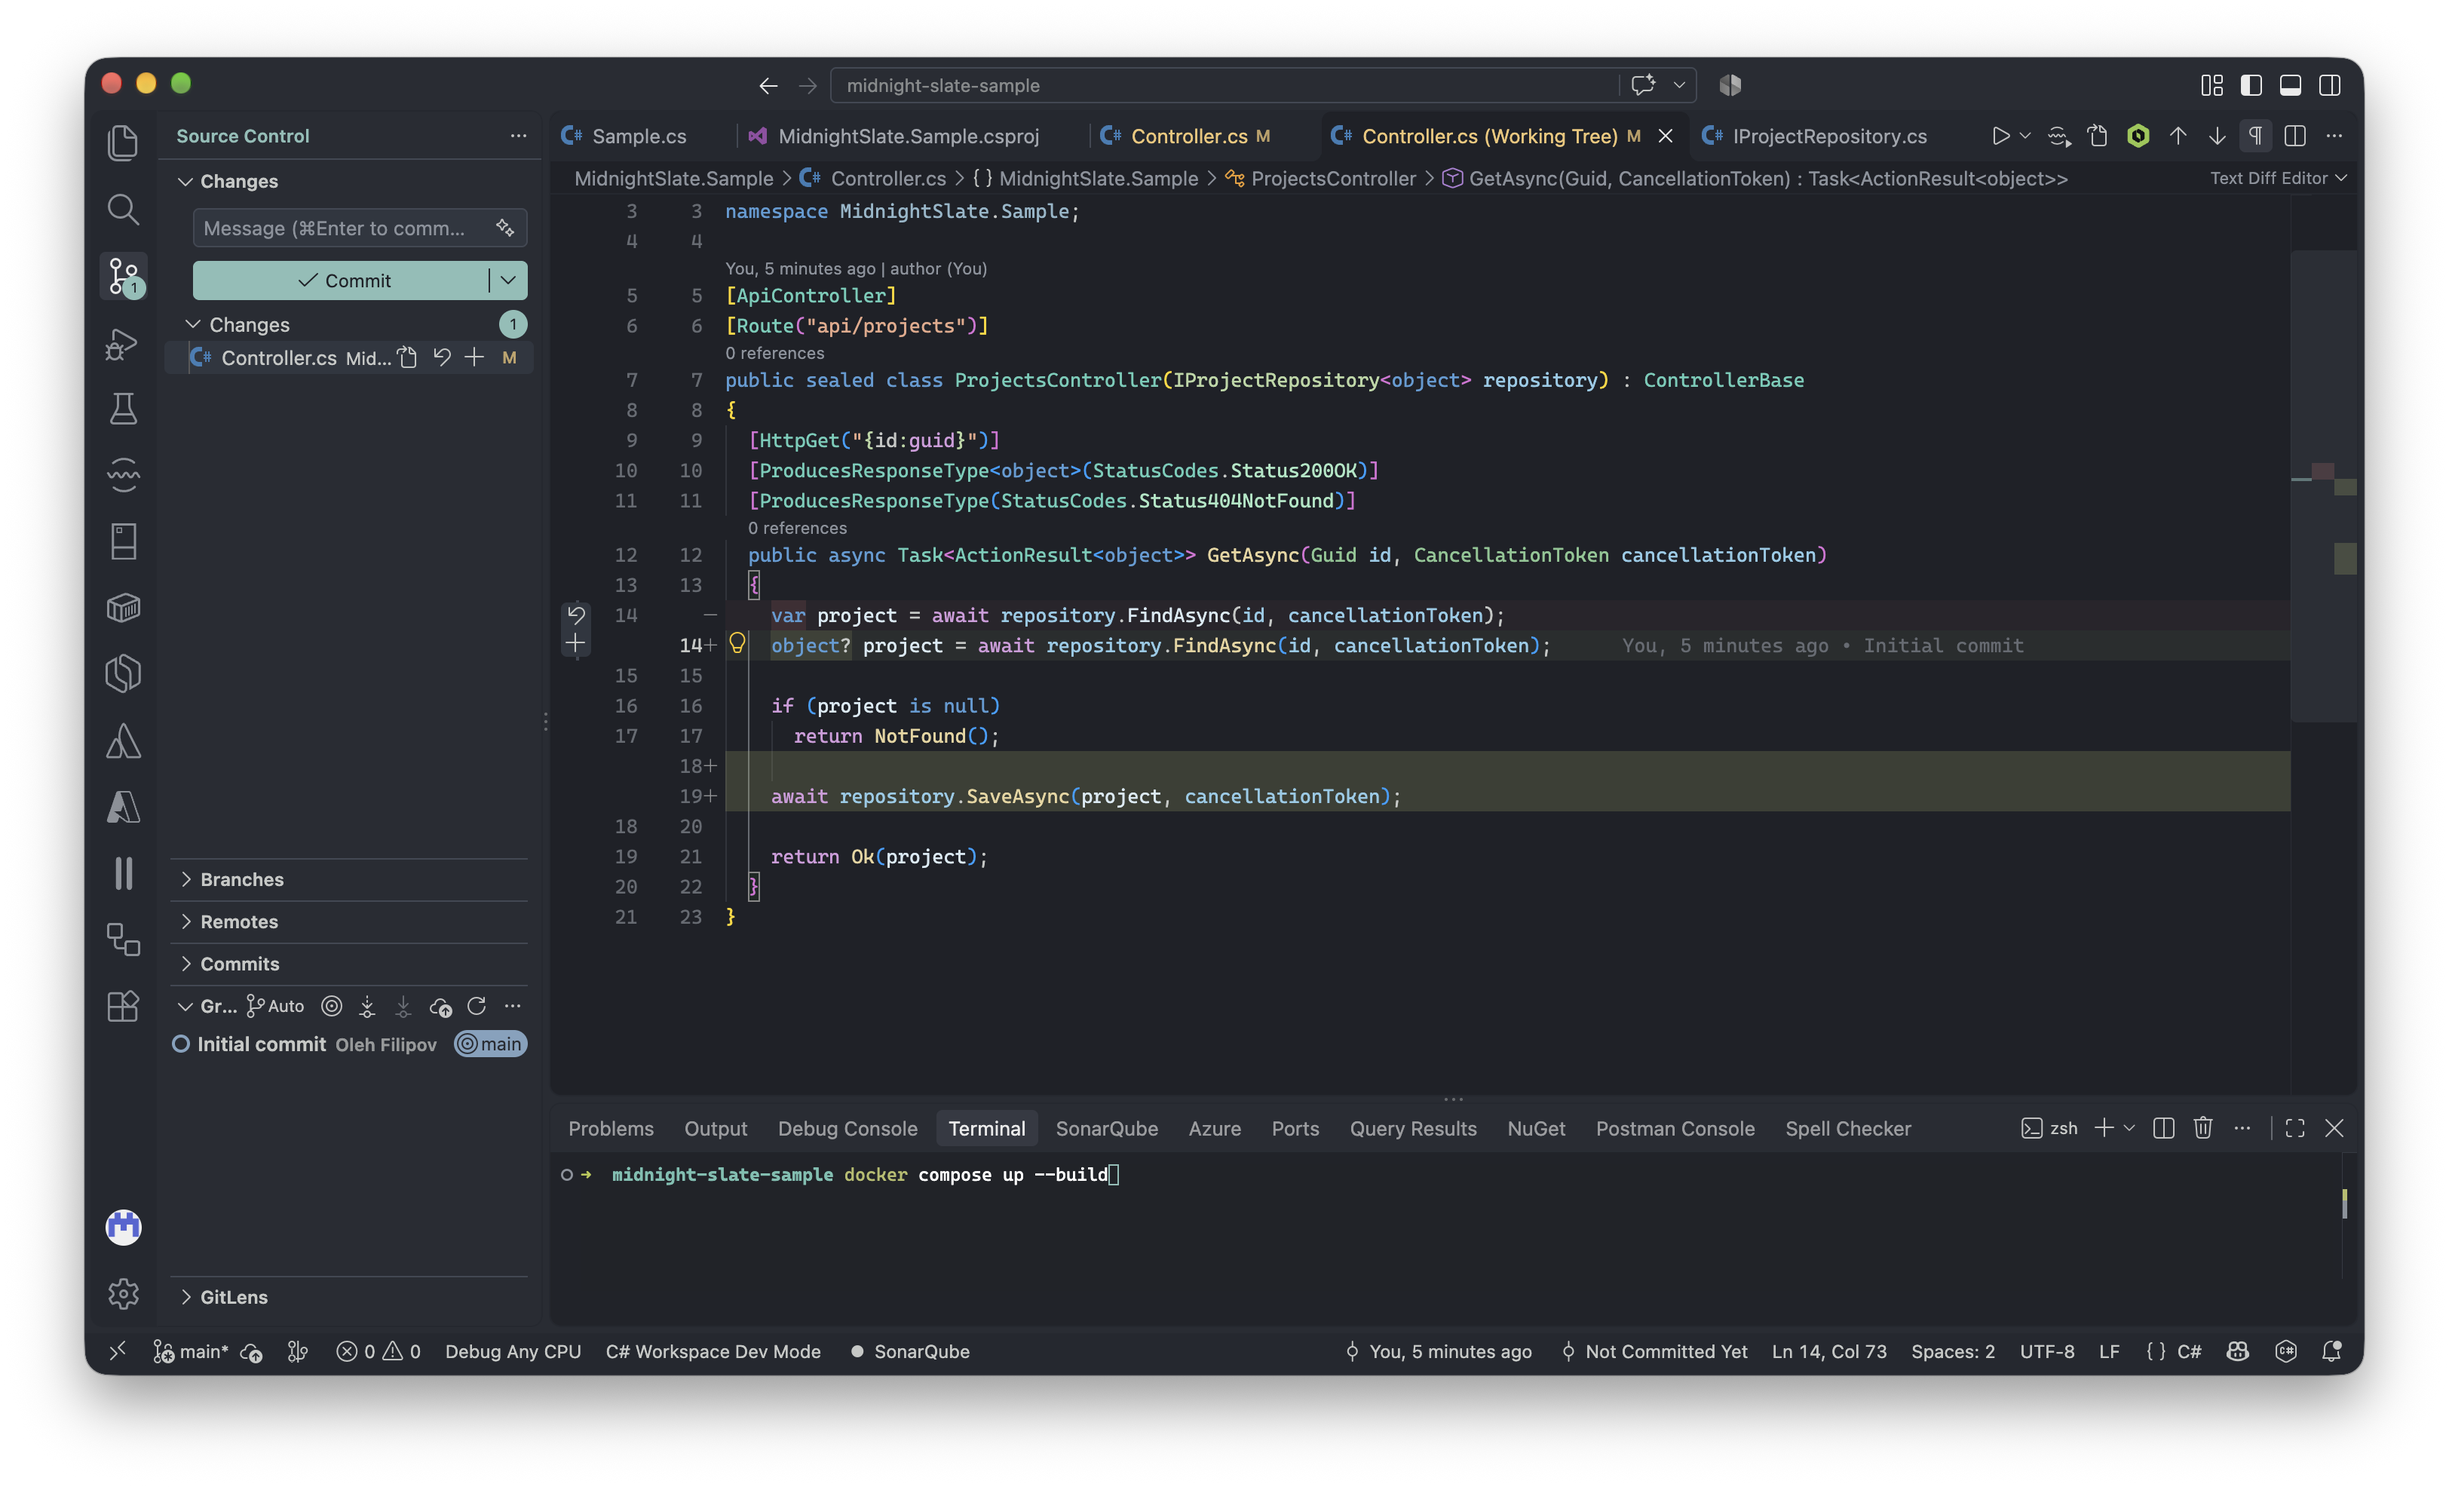
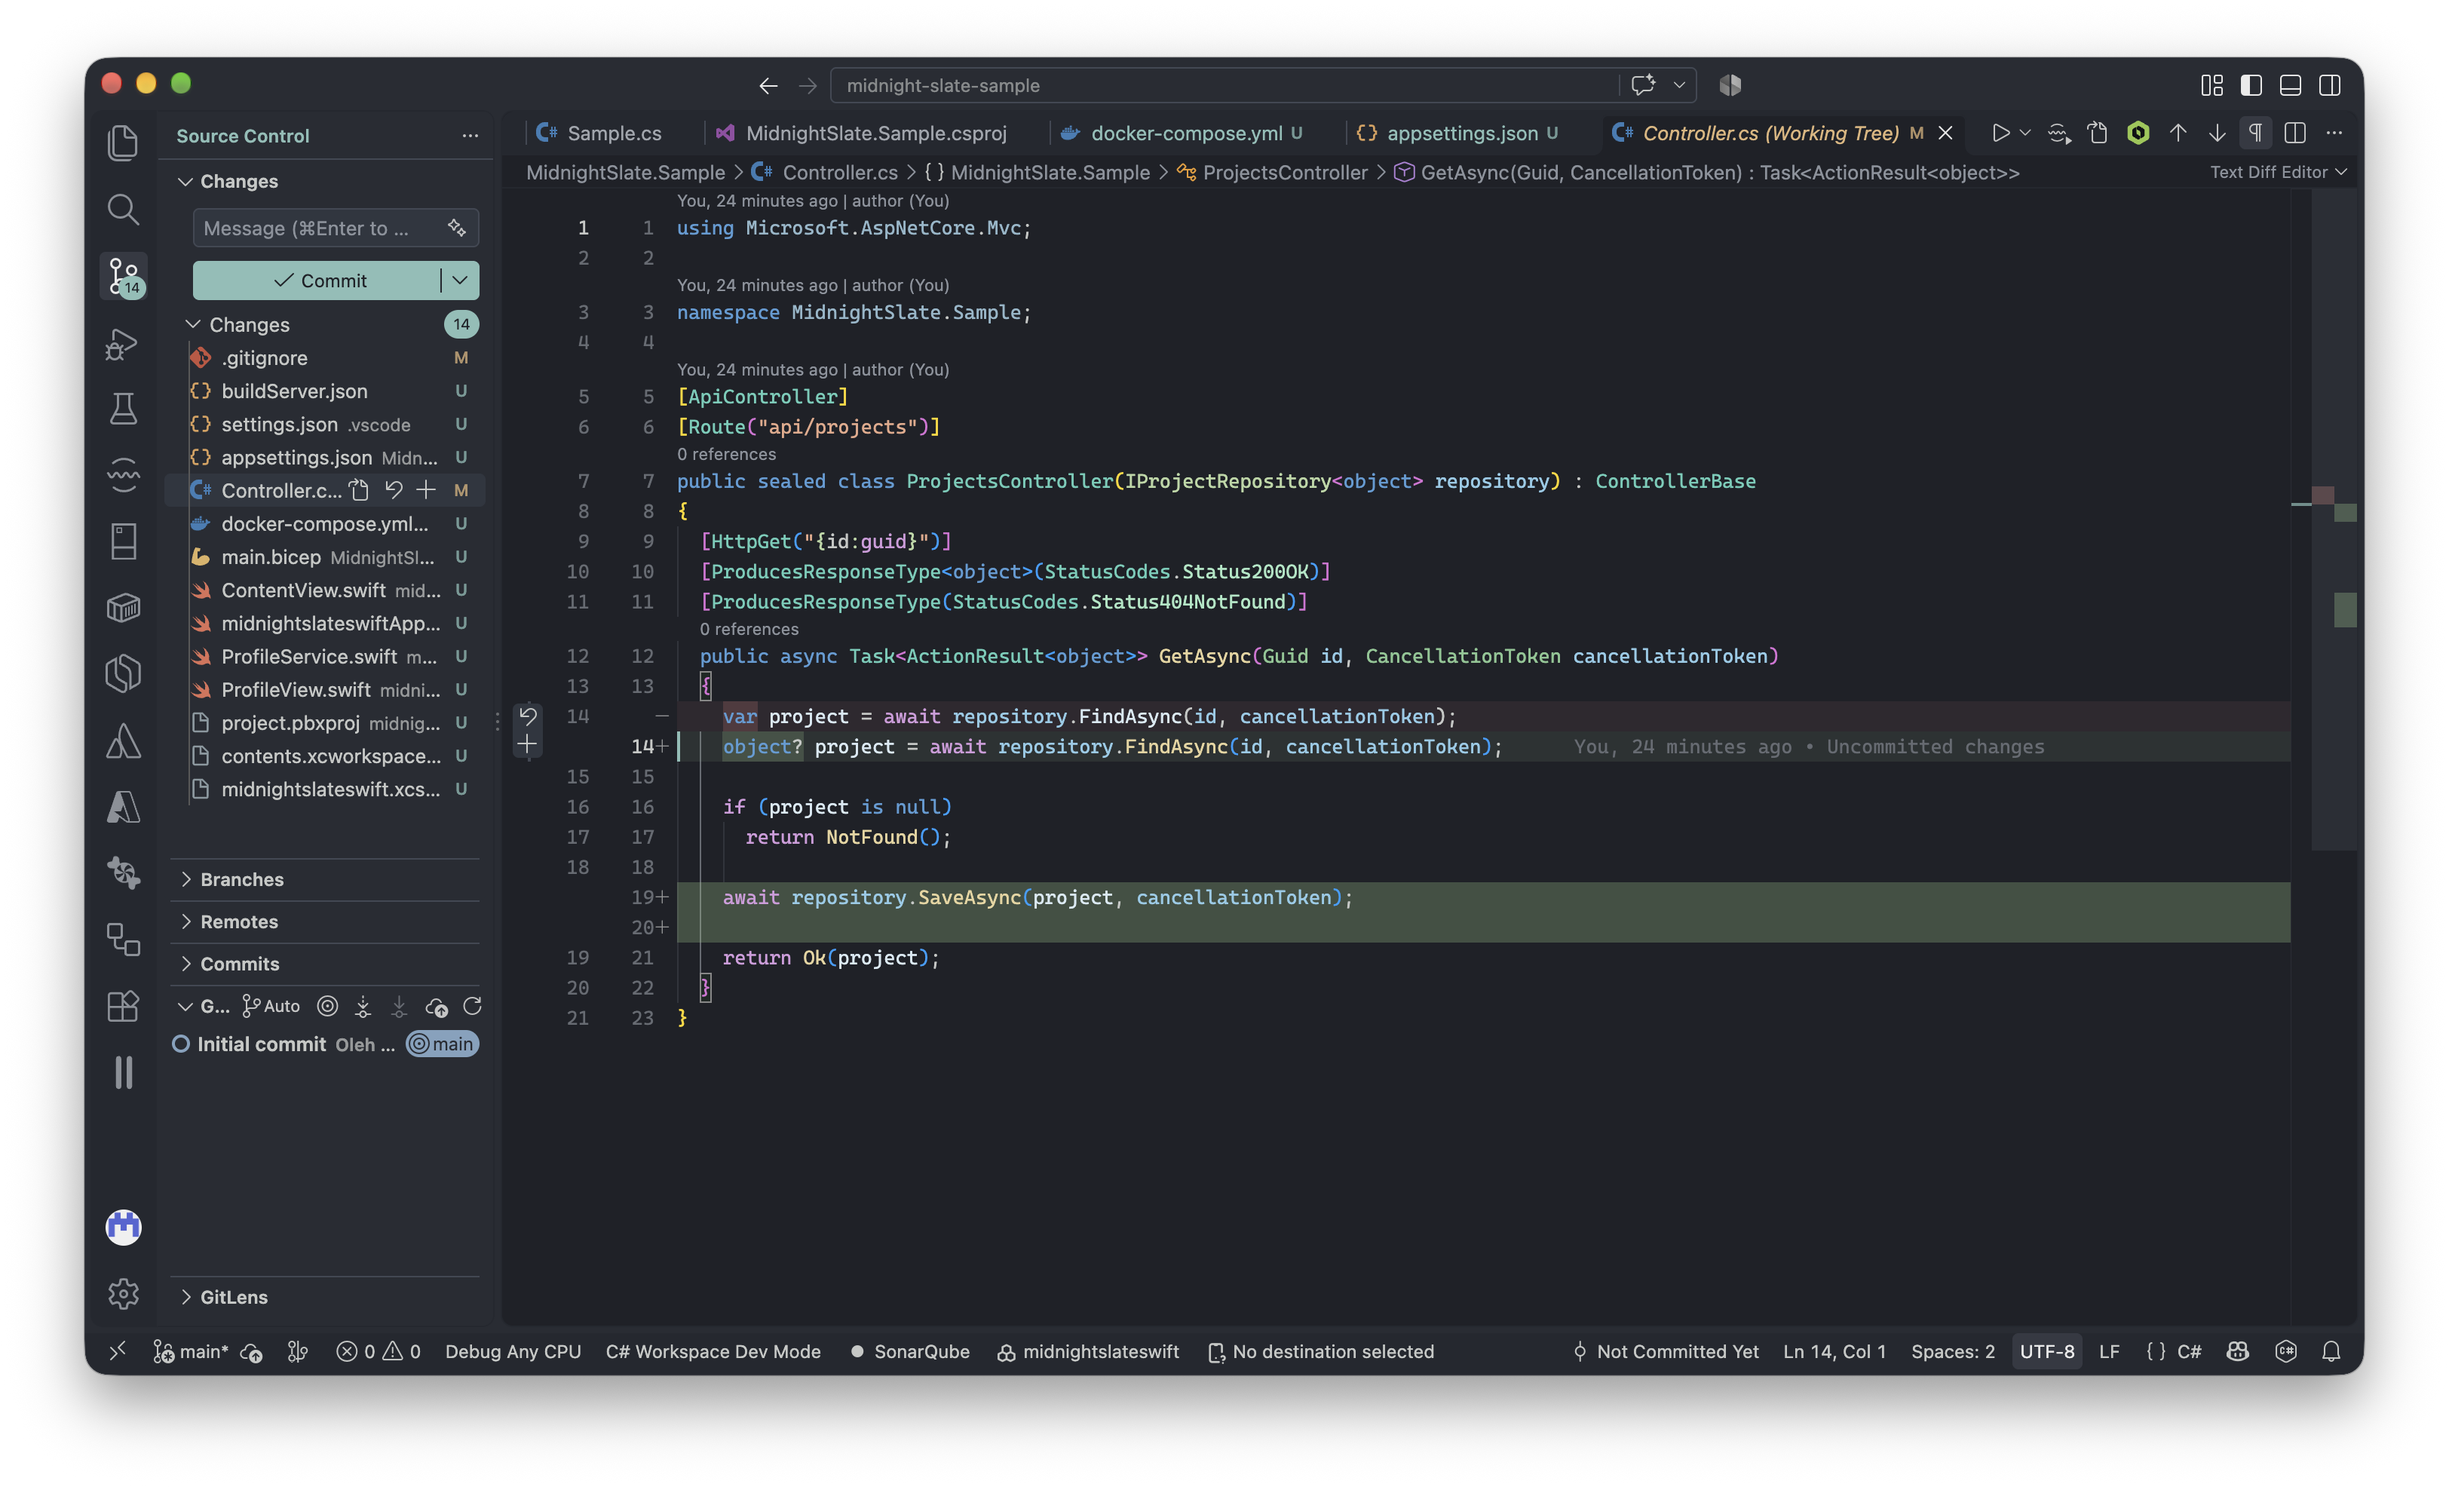
Add Swift support and refine theme colors (#6)
Added Swift and SwiftUI highlighting and refined theme colors

- Swift/SwiftUI syntax colors
- Softer, more readable added/modified/deleted colors
- New gutter, breakpoint, and overview ruler colors
- README: Swift screenshots and related extensions

diff --git a/README.md b/README.md
@@ -1,8 +1,8 @@
 # Midnight Slate
 
-A dark theme for Visual Studio Code, primarily designed for C# and .NET development.
+A dark theme for Visual Studio Code, primarily designed for C#/.NET and Swift/SwiftUI development.
 
-Midnight Slate combines a charcoal interface with muted accents and distinct syntax colors. It includes editor, terminal, Source Control, and workbench colors, with additional attention to JSON, YAML, Bicep, Razor, and other languages commonly used in .NET development. Other languages use the same color palette, but have not been tested extensively.
+Midnight Slate combines a charcoal interface with muted accents and distinct syntax colors. It includes editor, terminal, Source Control, and workbench colors, with additional attention to JSON, YAML, and Bicep. Other languages, such as Razor, TypeScript, and JavaScript, use the same color palette, but have not been tested extensively.
 
 ## Preview
 
@@ -13,6 +13,12 @@ Midnight Slate combines a charcoal interface with muted accents and distinct syn
 ![C# interface highlighting](images/screenshots/csharp-interface-syntax.png)
 
 ![ASP.NET Core controller highlighting](images/screenshots/csharp-controller-syntax.png)
+
+### Swift
+
+![Swift highlighting](images/screenshots/swift-syntax.png)
+
+![SwiftUI highlighting](images/screenshots/swift-ui-syntax.png)
 
 ### Source Control
 
@@ -122,17 +128,20 @@ git clone https://github.com/zsh-users/zsh-autosuggestions.git \
   ~/.oh-my-zsh/custom/plugins/zsh-autosuggestions
 ```
 
-### Related extensions
+### Related extensions and tools
 
-These extensions complement Midnight Slate for C# and .NET development:
+These extensions and tools complement Midnight Slate for C#/.NET and Swift development:
 
 - [Material Icon Theme](https://marketplace.visualstudio.com/items?itemName=PKief.material-icon-theme) — file and folder icons.
 - [C# Dev Kit](https://marketplace.visualstudio.com/items?itemName=ms-dotnettools.csdevkit) — C# and .NET development support.
 - [Bicep](https://marketplace.visualstudio.com/items?itemName=ms-azuretools.vscode-bicep) — Azure infrastructure authoring.
 - [YAML](https://marketplace.visualstudio.com/items?itemName=redhat.vscode-yaml) — YAML language support.
+- [Swift](https://marketplace.visualstudio.com/items?itemName=swiftlang.swift-vscode) — Swift language support.
+- [SweetPad](https://marketplace.visualstudio.com/items?itemName=sweetpad.sweetpad) — build, run, and debug iOS and macOS apps from VS Code.
+- [SweetPad CLI](https://sweetpad.hyzyla.dev/docs/cli/getting-started) — build, run, and test Xcode apps from the terminal.
 - [GitLens](https://marketplace.visualstudio.com/items?itemName=eamodio.gitlens) — enhanced Git history and annotations.
 
-These extensions are optional and aren't dependencies of Midnight Slate.
+These extensions/tools are optional and aren't dependencies of Midnight Slate.
 
 ## License
 

diff --git a/CHANGELOG.md b/CHANGELOG.md
@@ -1,5 +1,12 @@
 # Changelog
 
+## [0.2.0] - 2026-10-17
+
+- Added Swift and SwiftUI highlighting.
+- Refined the Source Control and diff colors for better readability.
+- Added colors for gutter change indicators, breakpoints, and the overview ruler.
+- Added Swift and SwiftUI screenshots and updated the Git diff screenshot.
+
 ## [0.1.1] - 2026-10-17
 
 - Added screenshots and a recommended setup guide (icons, font, terminal) to the README.
